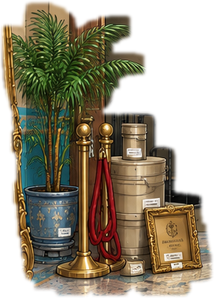
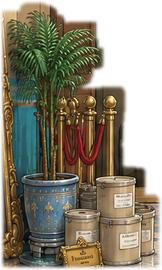
W4: приняты база с «окрашено» и тубус (вариант А); третий круг состояний по замечаниям автора — кабина от одной кабины, решётка остаётся открытой, рубильник внутри, лестница вниз без кольца, плёнки на стекле; спека §1.2 — история объекта и шов вырезки
Claude-Session: https://claude.ai/code/session_01RCXBsVTo4kB8n1RghkLeRt

diff --git a/PROJECT_STATUS_HYDROUDAR.md b/PROJECT_STATUS_HYDROUDAR.md
@@ -9,7 +9,7 @@
 - **Ветка и файлы (07.10.2026, вторая сессия).** PR #7 влит в ветку по умолчанию `claude/tender-hawking-o34vdn`; работа этой сессии — ветка `claude/compassionate-hopper-v367hd` (черновой PR в `claude/tender-hawking-o34vdn`). Если в статусе ветки по умолчанию нет этого абзаца — `git fetch origin claude/compassionate-hopper-v367hd` и читать статус оттуда. Папки `work/higgsfield/staging/` и `raw/` в git не попадают; кандидаты — `work/higgsfield/candidates/`, принятые базы — `assets/`, **принятые кадры-варианты состояний (полный кадр до вырезки) — `work/higgsfield/variants/`**; любую генерацию можно скачать заново по job_id из `work/higgsfield/log.jsonl`.
 - **Сделано 07.10.2026 (вторая сессия), всё принято автором:** `room_w6.png` (уступ без стола и валуна, стул посетителя); `room_w5.png` — с вывеской «Пріёмный пунктъ» и матовой латунной табличкой «Контора старшаго по водѣ» на двери конторы (прежние версии — `work/orig_gfx/`); `room_w5_under.png` (вариант Б: крупная ножка стола, колеи, рак-отшельник в латунной крышке); кадры-варианты `st_w5_kuh`, `st_w6_kuh`, `st_w6_kuh_aside`, `st_w5u_tentacles` (голые щупальца из-под цоколя и из-за угла стола), `st_w5u_reach` (руки не видно — тень и капли). Спека: §2.6 вывески, §2.8 без валуна, `st_w6_kuh` «у уступа», `st_w5u_*` по новой геометрии, **§5.3 — правило геометрии щупалец** (замечание автора: «щупальца появляются из ниоткуда» — каждое одной линией от тела, нарукавники только на руках, вне кадра — тенью). Инструмент вырезки `tools/assets/cutout.py` (маска по разнице с базой внутри `--box`, `--keep` — области из базы, подгонка цвета по кольцу; результат `assets/gfx/cutouts/` + `cutouts.json`, склейка-проверка `work/higgsfield/cutout_preview/`).
 - **СЛЕДУЮЩАЯ СЕССИЯ — начать отсюда:**
-  00. **Вечер 08.10.2026 — ждёт приёмки автора (редакция 2 по замечаниям):** лист `work/higgsfield/sheet_w4_states.png` и `sheet_w4_states_full.png` (весь зал в конце игры со всеми слоями). Кандидаты — `work/higgsfield/candidates/cutouts_w4/` (README: варианты, job_id, параметры, порядок слоёв). Замечания автора 08.10.2026 и что сделано: (1) край двери и куча «таяли» — маска резала предметы по живому; в `tools/assets/cutout.py` добавлены `--align` (вариант сдвигается до совпадения фона), `--grow` (шов по фону), `--base-name` (слой поверх склейки); все вырезки переделаны; **правило: шов вырезки — только по фону, предмет целиком внутри маски, проверять 2:1**; (2) лестница вела наверх — теперь колодец с ограждением, ступени вниз; (3) «откуда куча» — `st_w4_design` из сдачи Акта III (P10: «у зеркала аккуратная куча „дизайна“»), моя первая куча была не по сдаче (беспорядок у северной стены), переделана и нарисована на склейке с открытой лестницей (по графу Акта III лестница к этому моменту открыта); (4) трафарет «Лифт грузовой. Перевозка людей запрещена» — **автор считает, что от него отказались**; в документах он действует (сдача Акта III CS8, C05 «стоя — люди», тексты Z11, принятая база W4, спека §2.5, проверка цепочки п. 10) — **конфликт доложен автору, ждёт решения**; пока не убран. **Брак принятой базы W4:** «Осторожно, окра**щ**ено» — исправленная база `work/higgsfield/candidates/room_w4_okr_fix.png`, ждёт слова автора. **Тележка:** `st_w4_trolley_*`, `st_w4_tt_*` не делались — эталон тележки не утверждён (предложено начать с `st_w1_trolley`). Референсы в Higgsfield: принятая составная база W4 — media `82ce5c63…`; склейка с зеркалом у стены и открытой лестницей — `ac182663…`.
+  00. **Вечер 08.10.2026, третий круг W4.** Приняты автором: исправленная база `room_w4.png` («окрашено»; прежняя — `work/orig_gfx/room_w4__окращено.png`) и `st_w4_tube_photo` (вариант А) — в `assets/`. **Ждут приёмки:** лист `work/higgsfield/sheet_w4_states.png` (по шагам истории) и `sheet_w4_states_full.png`; кандидаты — `work/higgsfield/candidates/cutouts_w4/` (README). Замечания автора 08.10.2026 и что сделано: содержимое кабины видно сразу после снятия зеркала, полная кабина нарисована **от пустой** (та же кабина и рубильник); после выноса решётка **открыта и остаётся открытой**; рубильник — на задней стенке кабины, внутри; лестница — столб винтовой с шаром и поручень уходит вниз, проход свободен (колодцы с кольцом отклонены: кольцо перегораживало проход); плёнки лежат **на** стекле (угол свисает за раму); куча — те же вещи из кабины, нарисована на склейке «зеркало у стены + открытая кабина + открытая лестница». В спеке §1.2 — правила «история объекта» и «шов вырезки», строки §2.5 переписаны. **Стратегический вопрос автора (открыт):** трафарет «Перевозка людей запрещена» — «лифт понимает, есть ли в нём человек? кому кнопку нажимать?»; ответ и варианты — в разговоре 08.10.2026 (кнопки только на площадках — CS4, пуск снаружи; лифт ничего не «знает», запрет держится на законопослушности Лапидуса; предложено усилить физикой: кабина под одну тележку, стоя рядом с ней не поместиться). Ждёт решения автора; трафарет пока на месте. **Тележка:** `st_w4_trolley_*`, `st_w4_tt_*` — после утверждения эталона тележки. Референсы Higgsfield: база W4 `82ce5c63…` (до правки «окрашено», в вырезки эта зона не попадает), склейка для кучи `0ddad187…`.
   0. **Точка на 08.10.2026 (конец сессии):** приняты `room_w1`, `room_w2`, `room_w2_under`, `room_w3`, `room_w4` (+ W5/W6 из пакета 3). Готов слой `st_w4_mirror` (зал в начале игры; наклейка рамы врезана шрифтом — `tools/assets/plaque_insert.py`). **Следующее — остальные состояния W4** по спеке §2.5: `st_w4_mirror_aside`, `st_w4_cabin_full`, `st_w4_cabin_empty`, `st_w4_design`, `st_w4_stairs_open`, `st_w4_trolley_hall` (тугая маска, см. спеку), `st_w4_trolley_stairs`, `st_w4_tt_*`, `st_w4_water_bottle` (этикетка «Историческая вода „Каскадъ“…»), `st_w4_films`, `st_w4_tube_photo`, `st_w4_plate`; затем Z01, Z04–Z12, состояния W2/W2u/W3. **Как работаем:** перед новым экраном — план и камера на утверждение (`tools/layout/`), после утверждения — запись в `docs/BJ3_GEOMETRY.md`; состояние = кадр-вариант от генератора (правка базы, job принятой базы как референс) → вырезка `tools/assets/cutout.py` поверх принятой базы; мелкий брак (надпись, предмет) — правка только участка и вклейка в чистый кадр (маска разницы); мелкие надписи, которые генератор не вытягивает (~8 px), — шрифтом и `plaque_insert.py`; каждый кадр перед показом — осмотр целиком и крупно, побуквенная сверка надписей; гэги в каждом кадре выбирает автор. Цепочка головоломок проверена (`review/PUZZLE_CHAIN_REVIEW.md`), правки внесены (граф Акта III, тексты II–III, флаги, GDD, спека).
   1. **Вырезка — сделано 07.10.2026** (автор: «пробная вырезка устраивает»): `assets/gfx/cutouts/` — `st_w5_kuh`, `st_w6_kuh`, `st_w6_kuh_aside`, `st_w5u_tentacles`, `st_w5u_reach` (RGBA, координаты — `cutouts.json`; склейки — `work/higgsfield/cutout_preview/`). Замечание: в `st_w5_kuh` вывеска «Пріёмный пунктъ» взята из варианта — она на 130 px левее, чем на базе (на базе её место закрыла причёска); состояние включается при смене вида (из-под юбки → в рост), скачок не виден. Манифест: md5 `BJ3_HANDOFF.md` обновлён по слову автора — `check_docs.py` без расхождений.
   1а. **Правило «экран должен радовать глаз» — DESIGN_BIBLE §9 (решение автора 07.10.2026):** отель — историческое здание трёх эпох, в каждом кадре видны слои 1908 / профилакторий / «фирменный бежевый» поверх (неаккуратно, из-под краски проступает старое); бежевый — мотив, не палитра кадра. Спека §1.3 поправлена (палитра «Бежевый комфорт» на весь отель отменена), md5 библии в манифесте обновлён. Следствия: W2 перерисовывается по правилу (компоновка — вариант d, откидная доска по прототипу, спека §2.2); **принятый W1 переделывается** (решение автора), гэги W1 сохраняются.

diff --git a/docs/BJ3_ASSET_SPEC.md b/docs/BJ3_ASSET_SPEC.md
@@ -44,6 +44,10 @@
 3. Если меняется много (композиция, геометрия, палитра), кадр генерируется **с нуля** полным промптом, где собраны все принятые требования; принятые кадры подаются только как референс стиля.
 4. На приёмке — сравнение крупным планом (×2) с исходником: «снег», рябь, руки, контуры.
 
+**История объекта (замечание автора 08.10.2026: «прежде чем генерировать, задай себе вопрос — произошло ли что-то уже с этим объектом? Его внешний вид мог измениться?»).** Перед каждым состоянием — по графу и сдаче акта: что с этим предметом и с соседними уже сделали к этому моменту, и что из этого видно. Следствия: состояние рисуется **на склейке** «база + все слои, которые к этому моменту уже лежат» (куча «дизайна» — поверх зеркала у стены, открытой кабины и открытой лестницы); два состояния одного предмета — **от одного кадра** (полная кабина нарисована от пустой: та же кабина, тот же рубильник); открытое остаётся открытым (решётка лифта после выноса вещей), вынесенное лежит там, куда вынесли, и это те же вещи.
+
+**Шов вырезки (замечание автора 08.10.2026: «дверь и куча тают в воздухе»).** Граница слоя идёт только по фону, предмет целиком внутри маски; вариант сначала совмещается с базой (`cutout.py --align`), маска расширяется наружу (`--grow`), растушёвка 3–4 px; проверка — при увеличении ×2. Прозрачное (плёнки, стекло) вырезается областью, а не по разнице.
+
 ### 1.3. Стиль
 
 - Как BJ2, чтобы портреты Лапидуса и Предка из BJ2 не выпали: чёткий тёмный контур пером, акварельно-гуашевая заливка с лёгкой текстурой бумаги, приглушённая палитра, мягкие тени; без фотореализма, 3D и глянца. Пропорции слегка утрированы.
@@ -203,17 +207,17 @@
 |---|---|---|
 | `st_w4_mirror.png` | «Зеркало прекраснодушия» в золочёной пластиковой раме висит на крюках и целиком закрывает решётку, пост и плиту с трафаретом; под ним виден латунный порожек; на раме табличка «Улыбнитесь себе» и наклейка «Не трогать — элемент дизайна» (генератор, побуквенная сверка). Маска вырезки накрывает решётку, трафарет и свет лампы поста | ¬`mirror_removed` |
 | `st_w4_mirror_aside.png` | то же зеркало стоит у стены рядом с решёткой, лицом в зал | `mirror_removed` |
-| `st_w4_cabin_full.png` | за решёткой кабина, забитая «дизайном»: пластиковая пальма, столбики с канатами, банки краски, табличка | `mirror_removed` ∧ ¬`cabin_free` |
-| `st_w4_cabin_empty.png` | за решёткой пустая кабина, в глубине — рубильник | `cabin_free` ∧ ¬`descended_as_staff`, кроме промежутка между кадрами `SEQ.test.send` и `SEQ.test.call` |
-| `st_w4_design.png` | куча «дизайна» на мозаике у стены: пальма, столбики, канаты, банки, табличка | `cabin_free` |
-| `st_w4_stairs_open.png` | дверь служебной лестницы открыта, ключ в замке, за ней верх винтовой лестницы | `stairs_open` |
+| `st_w4_cabin_full.png` | решётка закрыта; за ней — та же кабина, что в `st_w4_cabin_empty` (нарисована от неё), забитая «дизайном»: пластиковая пальма в синем горшке, столбики с канатом, бежевые банки, запасная табличка, на всём белые наклейки; рубильник на задней стенке виден за вещами. Всё содержимое видно сразу, как сняли зеркало (замечание автора 08.10.2026) | `mirror_removed` ∧ ¬`cabin_free` |
+| `st_w4_cabin_empty.png` | **решётка открыта** (сложена к левому краю рамы — её открыли, чтобы вынести вещи, и она остаётся открытой, замечание автора 08.10.2026); кабина пуста, тёплый свет плафона, на задней стенке кабины — серая коробка рубильника с рычагом («380В», мел — в зуме Z11) | `cabin_free` ∧ ¬`descended_as_staff`, кроме промежутка между кадрами `SEQ.test.send` и `SEQ.test.call` |
+| `st_w4_design.png` | аккуратная куча «дизайна» у отставленного зеркала, справа от него (сдача Акта III, P10) — **те же вещи**, что стояли в кабине (`st_w4_cabin_full`): пальма в синем горшке, столбики с канатом, бежевые банки, табличка, белые наклейки. Рисуется на склейке «база + зеркало у стены + открытая кабина + открытая лестница»; в движке слой ложится поверх лестницы (ближе к камере) | `cabin_free` |
+| `st_w4_stairs_open.png` | дверь служебной лестницы открыта, ключ с биркой в замке; за ней тесная площадка с лампочкой; винтовая лестница идёт **только вниз**: виден верх железного столба с шаром и поручень, уходящий по дуге ниже пола; к первой ступени проход свободен, ни кольца, ни решётки (замечания автора 08.10.2026: «лестница ведёт наверх — абсурд», «через сплошную решётку никто не попадёт») | `stairs_open` |
 | `st_w4_trolley_hall.png` | тележка на мозаике у решётки лифта, между стойкой «Наследие» и лифтом; вырезать с тугой маской или рисовать поверх варианта с зеркалом — пока зеркало висит, по краю вырезки не должны проступать прутья решётки (проверка цепочки, п. 11) | `trolley.pos` = `hall` |
 | `st_w4_trolley_stairs.png` | тележка перекошена в дверном проёме лестницы, колесо повисло над первой ступенью | кадр `W4.stairs.trolley` (`trolley.pos` = `stairs` только на этот кадр, затем тележку выкатывают обратно — правка 08.10.2026) |
 | `st_w4_tt_water.png` | поверх `st_w4_trolley_hall`: на столешнице бутылка воды «Каскадъ» рядом с завтраком | `offering_on_trolley` ∧ ¬`test_run_done` |
 | `st_w4_tt_returned.png` | поверх `st_w4_trolley_hall`: на бутылке мокрый лучистый оттиск и записка, под бутылкой лист, на подносе оттиск | `test_run_done` ∧ ¬`trolley_back_at_counter` |
 | `st_w4_tt_payment.png` | поверх `st_w4_trolley_hall`: кефир, накладная, счёт | `payment_in_hall` ∧ ¬`descended_as_staff` |
 | `st_w4_water_bottle.png` | на стойке «Наследие» у люка — бутылка воды «Каскадъ», этикетка «Историческая вода „Каскадъ“. Комплимент от заведения» (текст `Z10.water.look`: табличка стойки — «Наследие», надпись — на этикетке бутылки) | ¬`offering_on_trolley` |
-| `st_w4_films.png` | на стекле над люком — три прозрачные плёнки стопкой | `overlay_by_frame` |
+| `st_w4_films.png` | **на** стекле над люком (не под ним) — три прозрачные плёнки стопкой рядом с бахилами: блики, светлые кромки, угол свисает за латунную раму на мозаику (замечание автора 08.10.2026) | `overlay_by_frame` |
 | `st_w4_tube_photo.png` | тубус открыт, рядом на столе фотография | `photo_seen` |
 | `st_w4_plate.png` | на доске почёта бежевый прямоугольник содран, видна эмалевая табличка (поле чистое) | `name_revealed` |
 

diff --git a/work/higgsfield/candidates/cutouts_w4/README.md b/work/higgsfield/candidates/cutouts_w4/README.md
@@ -1,4 +1,4 @@
-# Кандидаты: состояния W4 (08.10.2026, редакция 2 — по замечаниям автора)
+# Кандидаты: состояния W4 (08.10.2026, редакция 3 — по замечаниям автора)
 
 Вырезки поверх принятой `assets/gfx/rooms/room_w4.png`; координаты — `cutouts_candidates.json`.
 После приёмки автором: повторный запуск `tools/assets/cutout.py` с параметрами ниже → `assets/gfx/cutouts/`
@@ -18,15 +18,13 @@
 | Состояние | Вариант (job) | Параметры |
 |---|---|---|
 | st_w4_mirror_aside | `st_w4_mirror_aside_fix` (04b70ca1…; наклейка «Не трогать — элемент дизайна» врезана из принятого `st_w4_mirror` — `plaque_insert.py`, углы `517.5,563 552,556 554.5,574 520.5,585`) | `--box 425,190,600,650 --open 3 --align 6 --grow 8 --feather 3` |
-| st_w4_cabin_full | `st_w4_cabin_full2` (f9010a05…) | `--box 222,172,398,708 --thresh 3 --feather 3 --align 4` |
-| st_w4_cabin_empty | `st_w4_cabin_empty2` (fbaeeeb9…) | `--box 222,172,398,708 --thresh 3 --feather 3 --align 4` |
-| st_w4_stairs_open | `st_w4_stairs_open4` (62bab420…) | `--box 598,258,818,572 --thresh 30 --open 3 --close 25 --align 6 --grow 8 --feather 3` |
-| st_w4_design | `st_w4_design5` (6fa4b30a…); БАЗА — склейка `room_w4 + st_w4_mirror_aside + st_w4_stairs_open` | `--box 540,310,745,600 --thresh 30 --open 3 --close 15 --align 6 --grow 8 --feather 3 --base-name room_w4.png` |
+| st_w4_cabin_full | `st_w4_cabin_full4` (27ee292e…; нарисована от пустой 0b9da089 — та же кабина) | `--box 222,172,398,708 --thresh 3 --feather 3 --align 4` |
+| st_w4_cabin_empty | `st_w4_cabin_open1` (0b9da089…; решётка открыта, рубильник на задней стенке) | `--box 222,172,398,708 --thresh 3 --feather 3 --align 4` |
+| st_w4_stairs_open | `st_w4_stairs_open13` (6026b89a…; столб с шаром, поручень уходит вниз) | `--box 598,258,818,572 --thresh 30 --open 3 --close 25 --align 6 --grow 8 --feather 3` |
+| st_w4_design | `st_w4_design7` (90191679…); БАЗА — склейка `room_w4 + st_w4_mirror_aside + st_w4_cabin_empty + st_w4_stairs_open` | `--box 560,330,700,600 --thresh 30 --open 3 --close 15 --align 6 --grow 8 --feather 3 --base-name room_w4.png` |
 | st_w4_water_bottle | `st_w4_water_bottle` (3a782e09…) | `--box 1125,430,1180,545 --thresh 14 --open 3 --close 9 --align 4 --grow 4 --feather 3` |
-| st_w4_films | `st_w4_films` (edf6eb4c…) | `--box 950,600,1085,680 --thresh 12 --open 3 --close 15 --align 4 --grow 5 --feather 3` |
+| st_w4_films | `st_w4_films2` (fb3571e6…; плёнки на стекле, угол за рамой) | `--box 860,625,1070,720 --thresh 7 --open 1 --close 31 --align 4 --grow 6 --feather 3` |
 | st_w4_plate | `st_w4_plate` (8be82651…) | `--box 985,280,1085,415 --open 3 --align 4 --grow 5 --feather 3` |
-| st_w4_tube_photo (А) | `st_w4_tube_photo2` (02366be5…) | `--box 330,780,910,1060 --thresh 18 --open 3 --close 35 --align 4 --grow 8 --feather 3` |
-| st_w4_tube_photo_b (Б) | `st_w4_tube_photo3` (b07a9554…) | `--box 300,840,620,1065 --open 3 --align 4 --grow 8 --feather 3` |
 
 Порядок слоёв в движке: зеркало у стены → кабина → лестница → куча «дизайна» (она ближе к камере и
 заслоняет створку) → остальное.
@@ -36,5 +34,11 @@
 сдаче: беспорядок у северной стены), 3–4 (нарисованы на кадре с закрытой дверью), 6 (закрывает наклейку
 зеркала).
 
-`../room_w4_okr_fix.png` — база W4 с исправленной надписью «Осторожно, окрашено» (в принятой — «окращено»):
+Принято автором и уже в `assets/`: `st_w4_tube_photo` (вариант А) и база W4 с исправленной надписью «Осторожно, окрашено» (в принятой — «окращено»):
 прямоугольник 945,424–1195,460 из `st_w4_cabin_empty` (0f1f84df…, сдвиг −1 px), растушёвка 3 px, цвет по кольцу.
+
+Редакция 3 (замечания автора 08.10.2026): полная кабина — от пустой; пустая — с открытой решёткой (её открыли
+для выноса вещей и она остаётся открытой; на время пробного пуска, между `SEQ.test.send` и `SEQ.test.call`,
+кабины нет — видна база с закрытой решёткой); рубильник — на задней стенке кабины; лестница — без кольца
+(пробы 6–9 с кольцом-ограждением отклонены: нижнее кольцо перегораживало проход; 10–11 вели наверх; 12 —
+прямая, не винтовая); плёнки — на стекле; куча — те же вещи из кабины.
